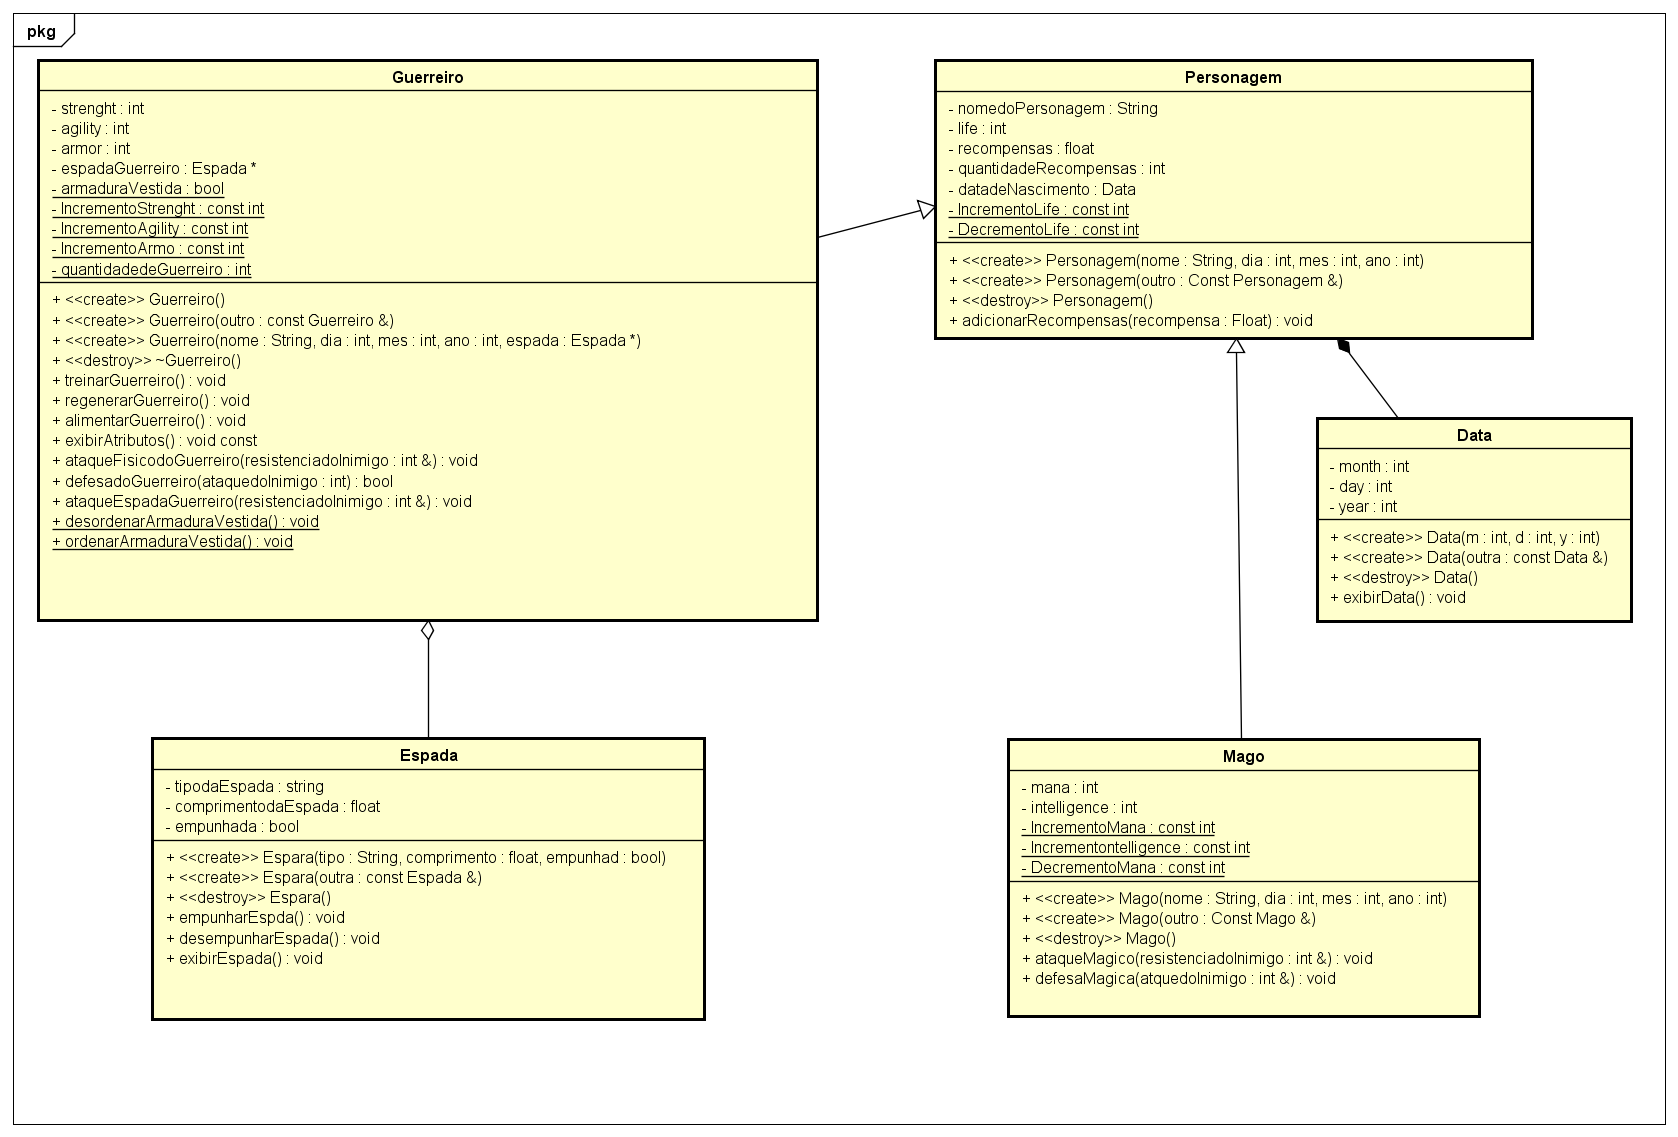
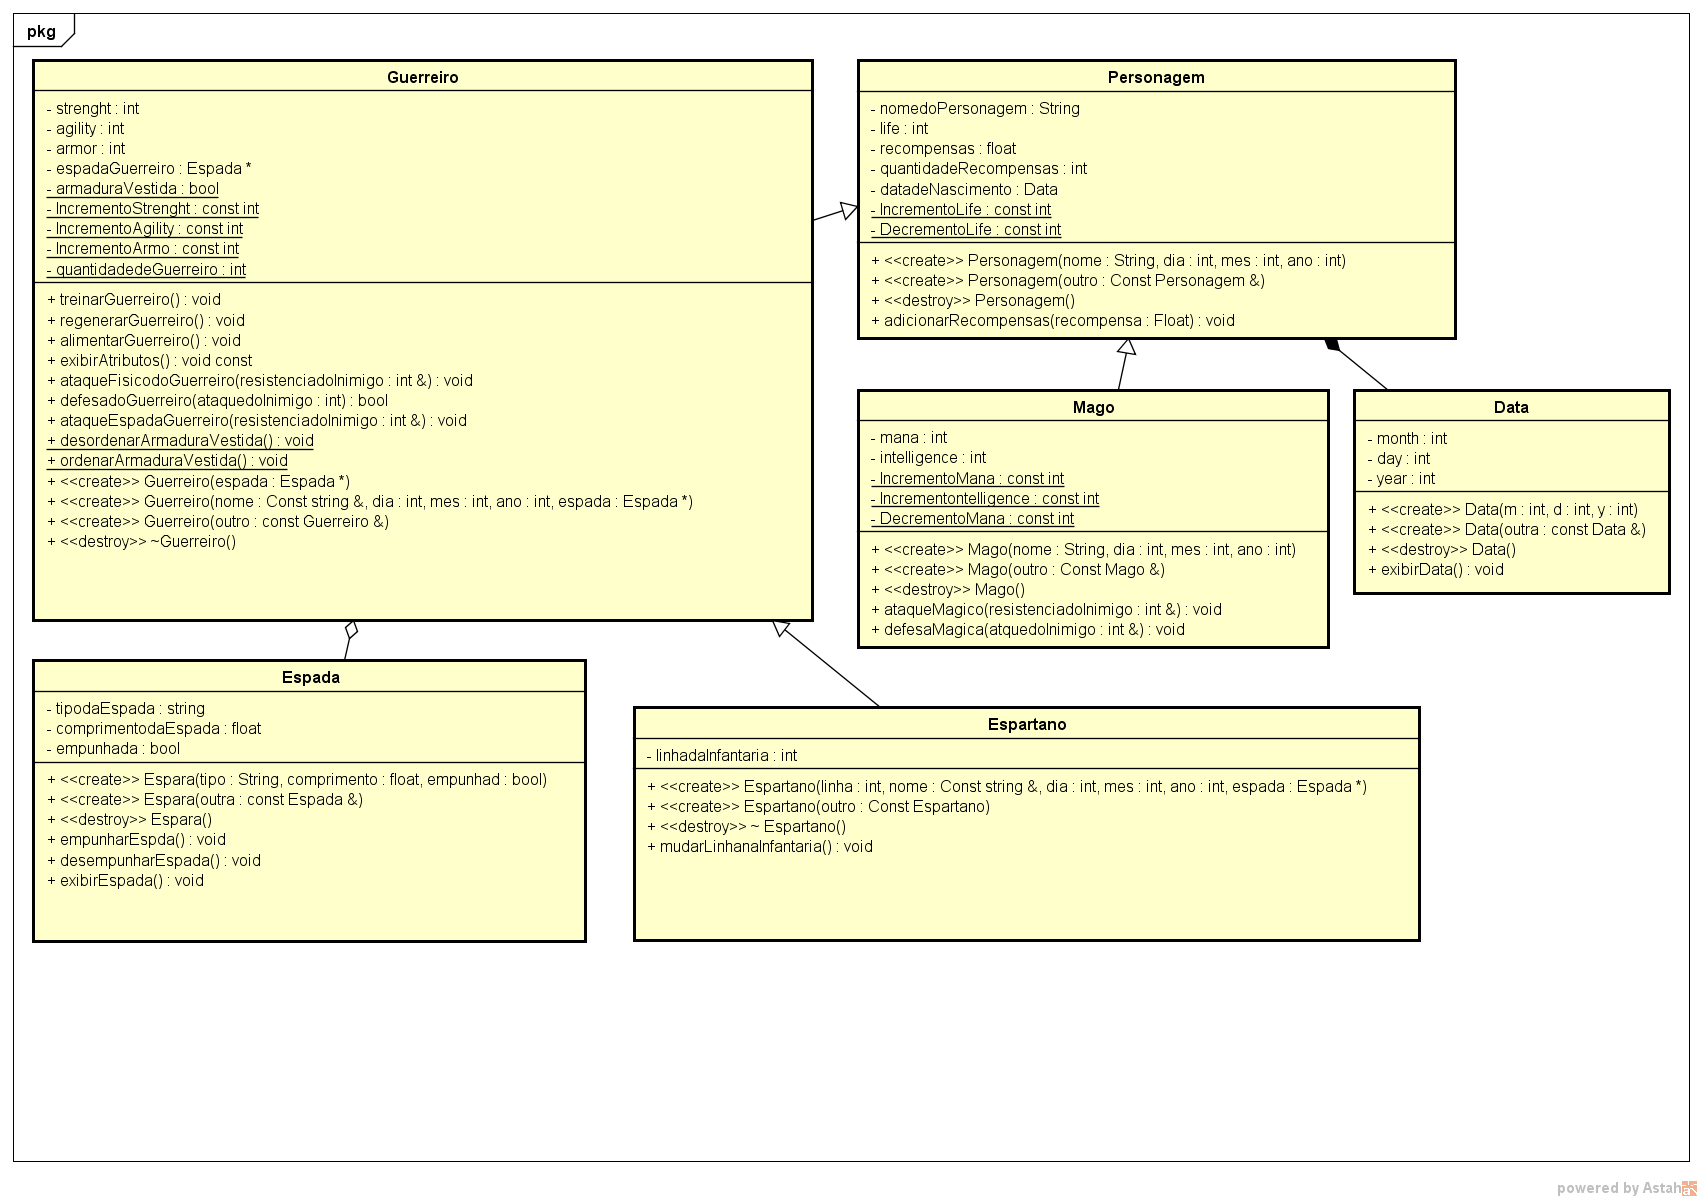
Criação da Classe Espartano derivada da Classe Guerreiro.

diff --git a/Guerreiro/Espartano.h b/Guerreiro/Espartano.h
@@ -1,0 +1,28 @@
+#ifndef ESPARTANO_H
+#define ESPARTANO_H
+
+#include "Guerreiro.h"
+#include <string>
+#include <iostream>
+
+using std::ostream;
+using std::string;
+
+class Espartano: public Guerreiro
+{
+    friend ostream & operator<<(ostream &, const Espartano &);
+public:
+    Espartano(int, const string, int, int , int, Espada *);
+    Espartano(const Espartano &);
+    ~Espartano();
+    
+    void mudarlinhanaInfantaria();
+    const Espartano &operator=(const Espartano &);
+    
+private:
+    int linhadaInfantaria;
+};
+
+#endif // ESPARTANO_H
+
+

diff --git a/Guerreiro/Espartano.cpp b/Guerreiro/Espartano.cpp
@@ -1,0 +1,11 @@
+#include "Espartano.h"
+
+Espartano::Espartano()
+{
+
+}
+
+Espartano::~Espartano()
+{
+}
+
